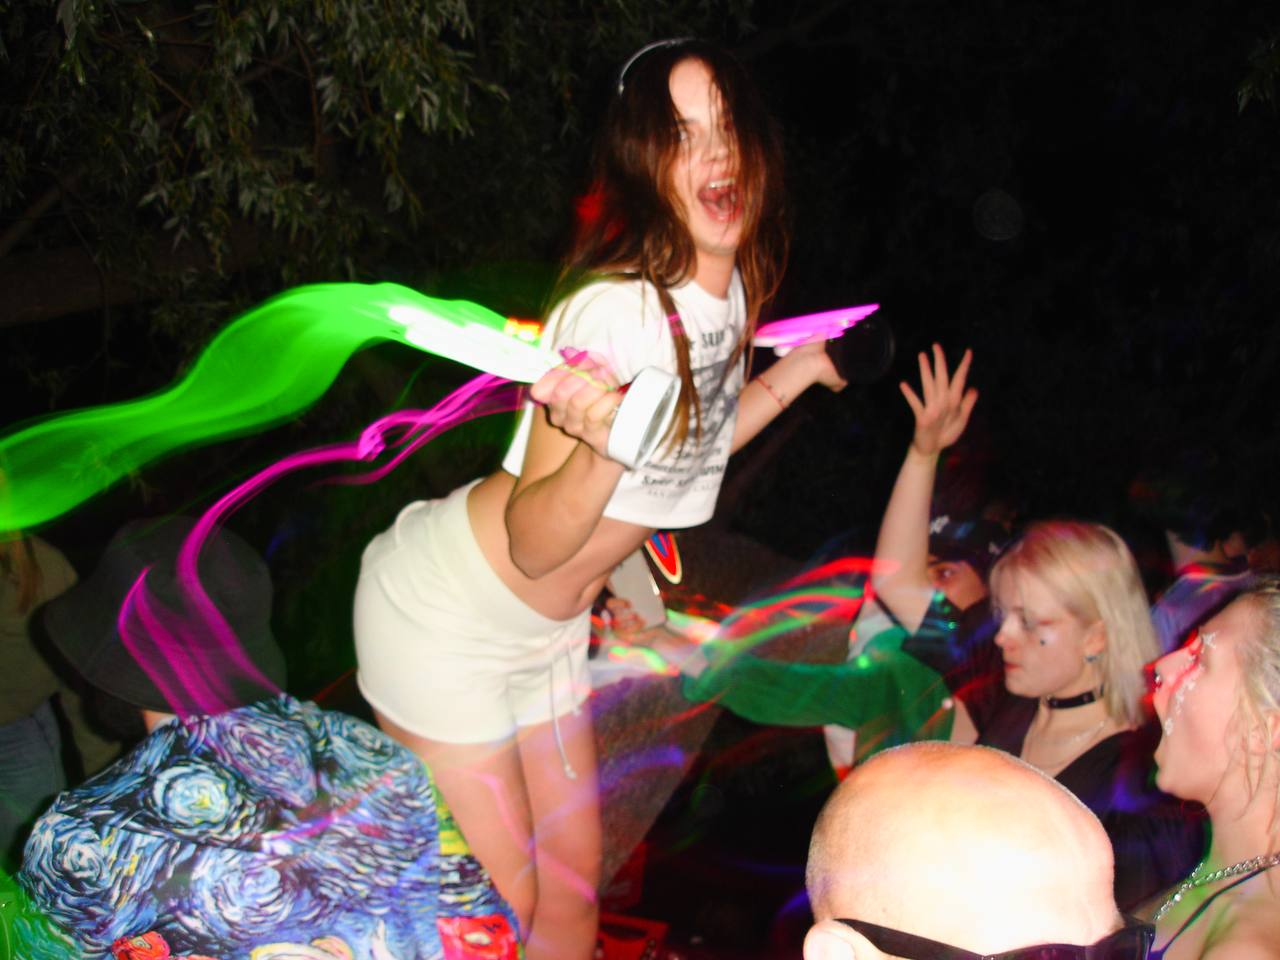
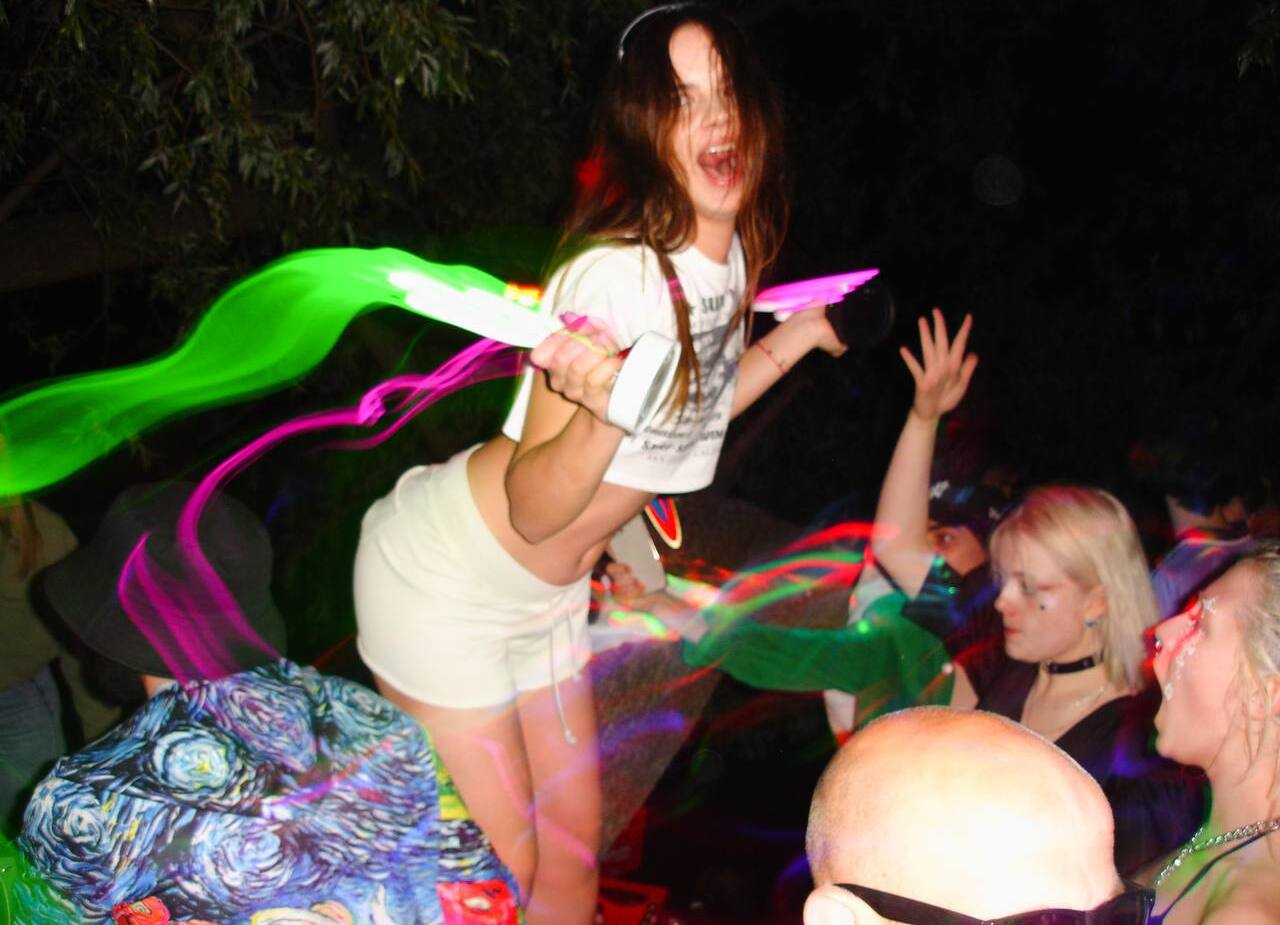
wip: approve images to large screens

diff --git a/src/components/pages/home/HomePage.tsx b/src/components/pages/home/HomePage.tsx
@@ -4,8 +4,6 @@ import FrequentlyAskedQuestions from "./components/FrequentlyAskedQuestions";
 import SmallBuyButton from "./components/SmallBuyButton";
 import LargeBuyButton from "./components/LargeBuyButton";
 
-import styles from "./style.module.css";
-
 const HomePage = () => {
   return (
     <main className={"flex flex-col justify-between h-svh"}>
@@ -50,21 +48,31 @@ const HomePage = () => {
           </div>
 
           <div className={"flex flex-wrap gap-2.5 w-full justify-center"}>
-            <div className={styles.photo1}>
+            <div
+              className={
+                "w-full max-w-96 sm:max-w-[32rem] h-52 sm:h-96 relative"
+              }
+            >
               <Image
+                className={"bg-[lightgray] object-cover object-center"}
                 src={"/photo1.jpeg"}
                 alt="A group of people dancing at a party with colorful lighting effects"
                 fill
-                sizes={"390px 200px"}
+                sizes="(max-width: 384px) 100vw, (max-width: 640px) 384px, 32rem"
                 priority
               />
             </div>
-            <div className={styles.photo2}>
+            <div
+              className={
+                "w-full max-w-96 sm:max-w-[32rem] h-52 sm:h-96 relative"
+              }
+            >
               <Image
+                className={"bg-[lightgray] object-cover object-center"}
                 src={"/photo2.jpeg"}
                 alt="A young woman dances at a party with colorful lighting effects, surrounded by other people."
                 fill
-                sizes={"390px 200px"}
+                sizes="(max-width: 384px) 100vw, (max-width: 640px) 384px, 32rem"
                 priority
               />
             </div>
